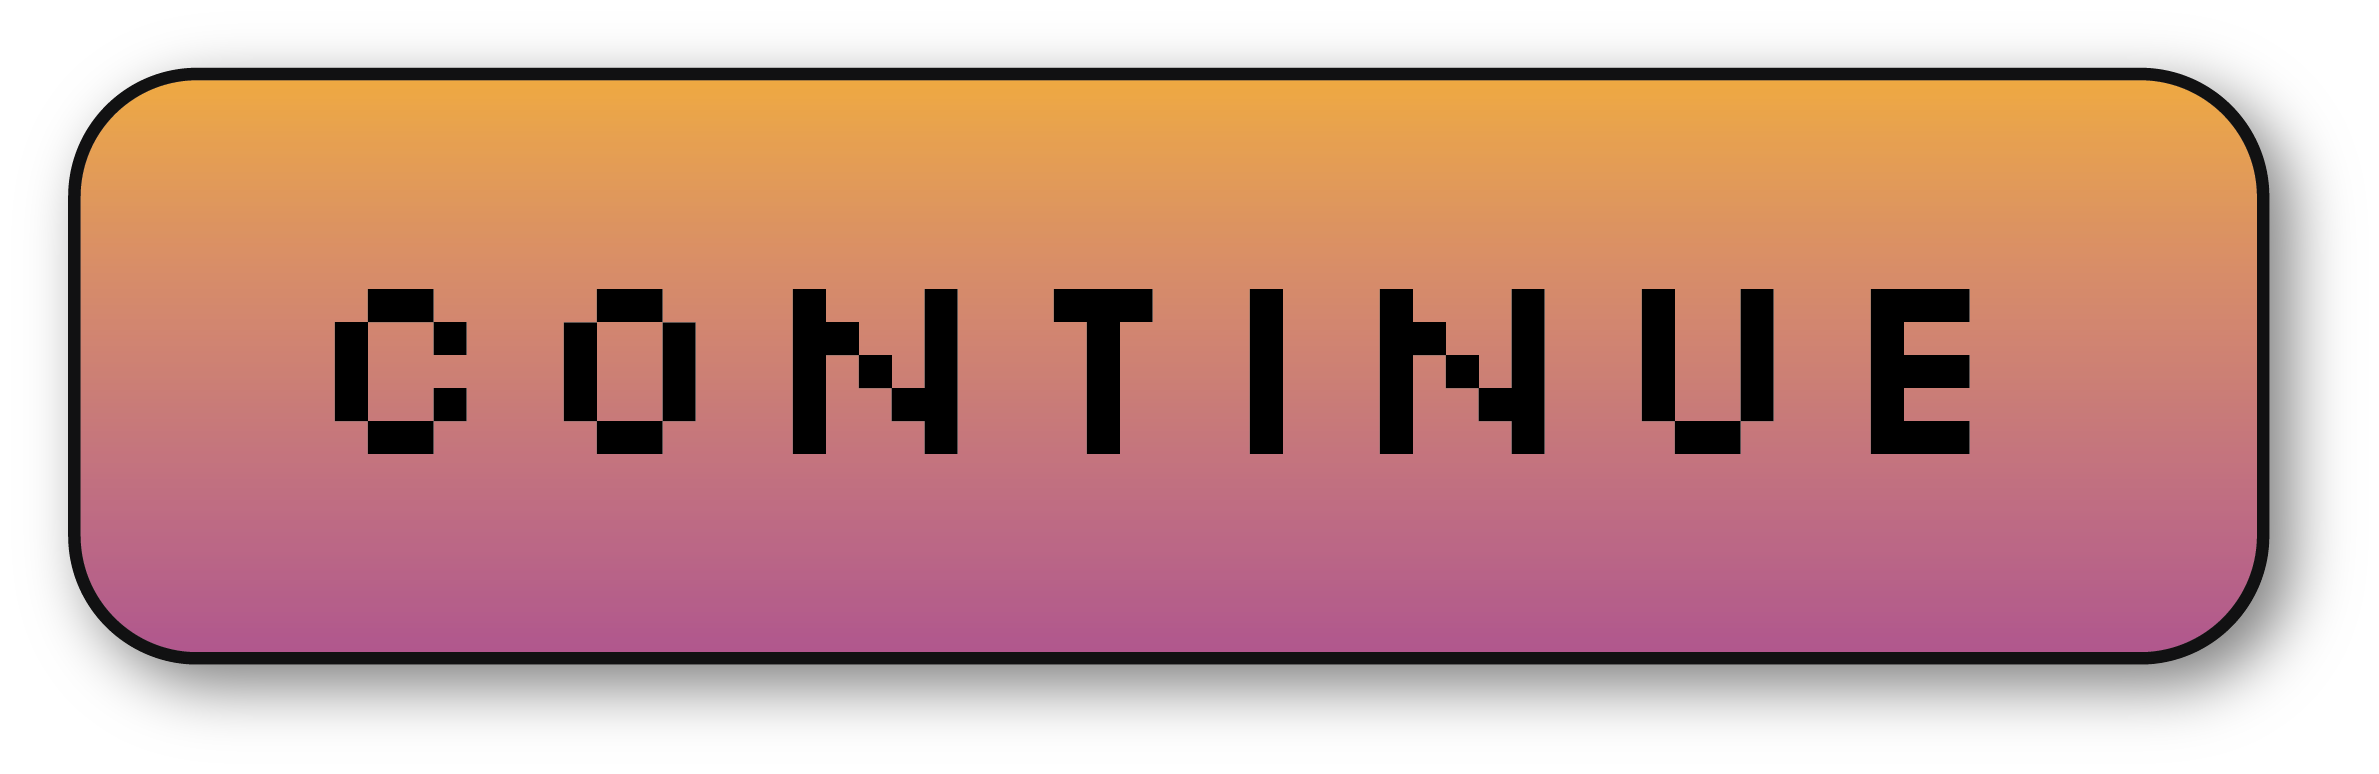
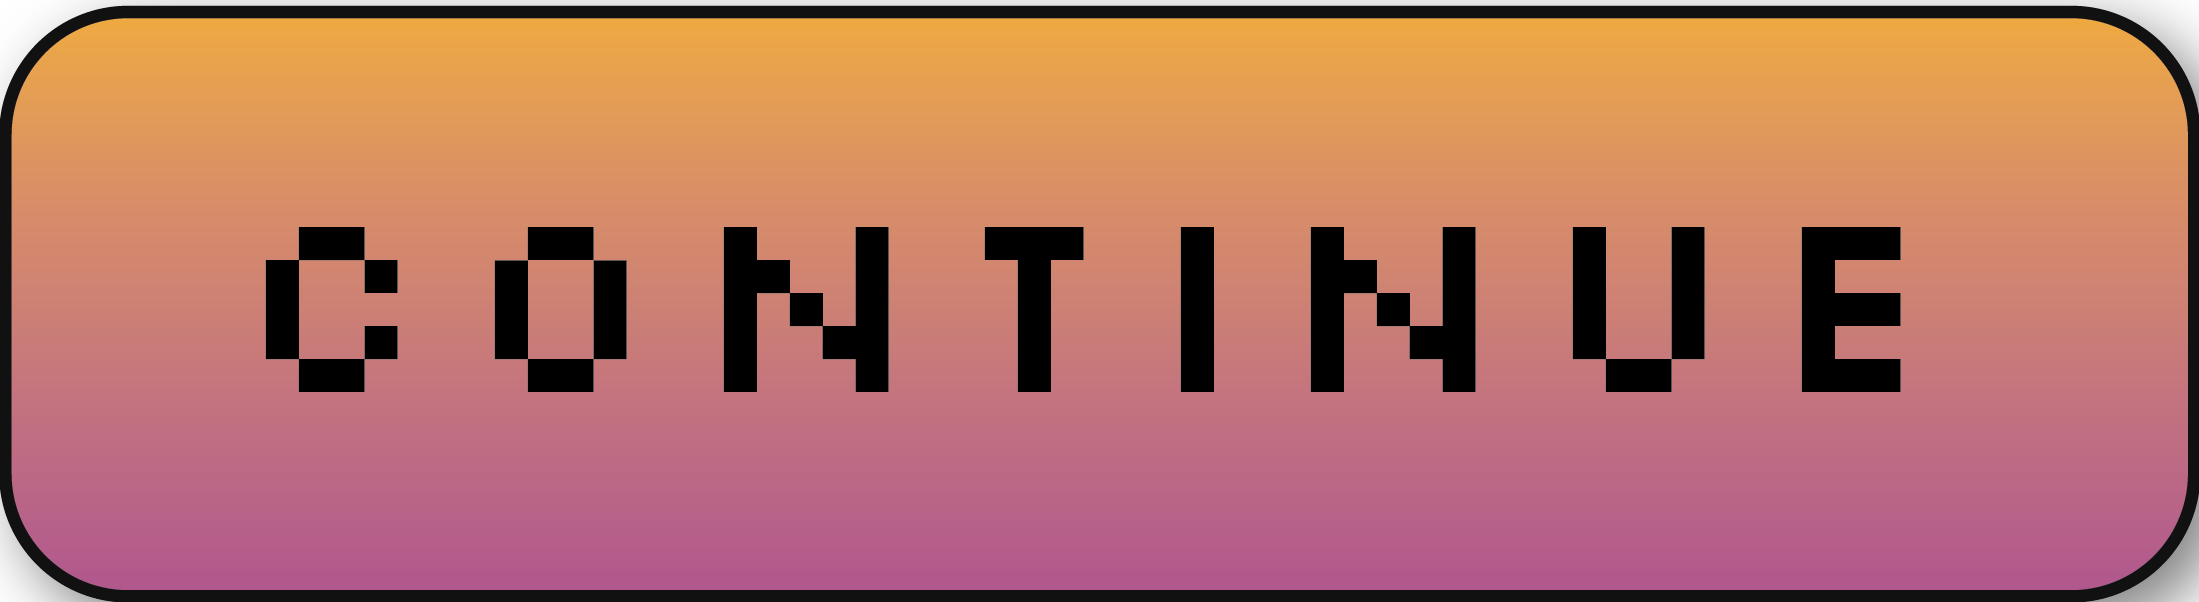
artwork

diff --git a/Assets/Scripts/Draft Scripts/ContinueBtn.cs b/Assets/Scripts/Draft Scripts/ContinueBtn.cs
@@ -9,6 +9,9 @@ public class ContinueBtn : MonoBehaviour
     Button button;
     Image img;
 
+    public Sprite enabled;
+    public Sprite disabled;
+
     public void Start(){
         button = this.transform.GetComponentInParent<Button>();
         img = this.transform.GetComponentInParent<Image>();
@@ -34,13 +37,15 @@ public class ContinueBtn : MonoBehaviour
 
         if (currentPhrase == 0) {
             if (numSelected == maxSlctStudent) {
-                img.color = Color.green;
+                // img.color = Color.green;
+                img.sprite = enabled;
                 button.enabled = true;
                 // ColorBlock cb = button.colors;
                 // cb.normalColor = new Color(74,219,94,255);
             }
             else {
-                img.color = Color.red;
+                // img.color = Color.red;
+                img.sprite = disabled;
                 button.enabled = false;
             }
         }

diff --git a/Assets/Scripts/Draft Scripts/DraftPanel.cs b/Assets/Scripts/Draft Scripts/DraftPanel.cs
@@ -17,6 +17,9 @@ public class DraftPanel : MonoBehaviour
 
 
     // prefab
+    public GameObject Background;
+    public Sprite backgroundSprite2;
+    
     public GameObject DraftArea;
     public GameObject CardInfoPopup;
     public Sprite studentCardSprite;
@@ -153,6 +156,8 @@ public class DraftPanel : MonoBehaviour
         } else if (currentPhrase == 1) {
             Debug.Log($"Prof Phrase");
 
+            Background.GetComponent<Image>().sprite = backgroundSprite2;
+
             // Sprite ProfCardBackGround = Resources.Load<Sprite>("Assets/Card_Shirts_Lite/PNG/Card_shirt_01") as Sprite;
 
             for (int i=0; i<this.studentCardObjList.Count;i++) {
@@ -206,7 +211,7 @@ public class DraftPanel : MonoBehaviour
                     gameStateSO.profAvail[p.GetComponent<Professor>().id] = false;
                 }
             }
-            
+
             gameStateSO.point = point;
             NextScene();
 

diff --git a/Assets/Scripts/Draft Scripts/SelectStudentTxt.cs b/Assets/Scripts/Draft Scripts/SelectStudentTxt.cs
@@ -12,6 +12,8 @@ public class SelectStudentTxt : MonoBehaviour
     // public DraftPanel DraftPanel;
     public TMP_Text txt;
 
+    Color gold = new Color(0.937255f, 0.6666667f, 0.2509804f, 1f);
+
     // Update is called once per frame
     void Update()
     {
@@ -28,7 +30,8 @@ public class SelectStudentTxt : MonoBehaviour
                 txt.color = Color.red;
             }
             else {
-                txt.color = Color.white;
+                // txt.color = Color.white;
+                txt.color = gold;
             }
         }
         else if (currentPhrase == 1) {
@@ -37,7 +40,7 @@ public class SelectStudentTxt : MonoBehaviour
                 txt.color = Color.red;
             }
             else {
-                txt.color = Color.white;
+                txt.color = gold;
             }
         }
 

diff --git a/Assets/Scripts/Draft Scripts/StudentCard.cs b/Assets/Scripts/Draft Scripts/StudentCard.cs
@@ -50,7 +50,7 @@ public class StudentCard : MonoBehaviour //, IPointerClickHandler
         } else {
             // img.color = Color.red;
             Color currentColor = img.color;
-            currentColor.a = 0.4f;
+            currentColor.a = 0.5f;
             img.color = currentColor;
         }
     }
